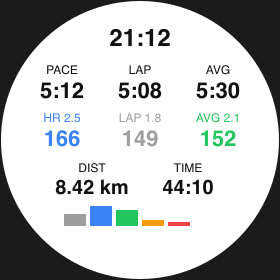
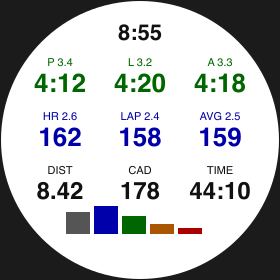
feat(run-field): wider pace gutters, cadence field, DIST label, refreshed Store screen image
- Column gutters so the bigger values don't touch; pace labels shortened to P/L/A.
- Bottom row is DIST / CAD / TIME (cadence added); DIST drops the KM (unit in the label was removed).
- store-assets/screen.svg + listing.md updated to the shipped layout (P/L/A, dark palette, cadence, max-normalized bars).

diff --git a/store-assets/listing.md b/store-assets/listing.md
@@ -9,7 +9,7 @@ chart. Optimised for the Enduro 3 and other modern Garmin watches.
 - Pace (or power) shown as current / lap / average, coloured by training zone.
 - Heart rate as current / lap / average, coloured by HR zone with a fractional zone number.
 - Heart-rate time-in-zone bar chart; each bar grows with the time spent in that zone and is drawn in that zone's colour.
-- Distance, elapsed time, and clock.
+- Distance, cadence, elapsed time, and clock.
 - Pace zones derived from your threshold pace using a training model you choose.
 - Large, bold numbers and high-contrast zone colours tuned for the sunlight (MIP) display, with a brighter palette on dark/AMOLED backgrounds.
 
